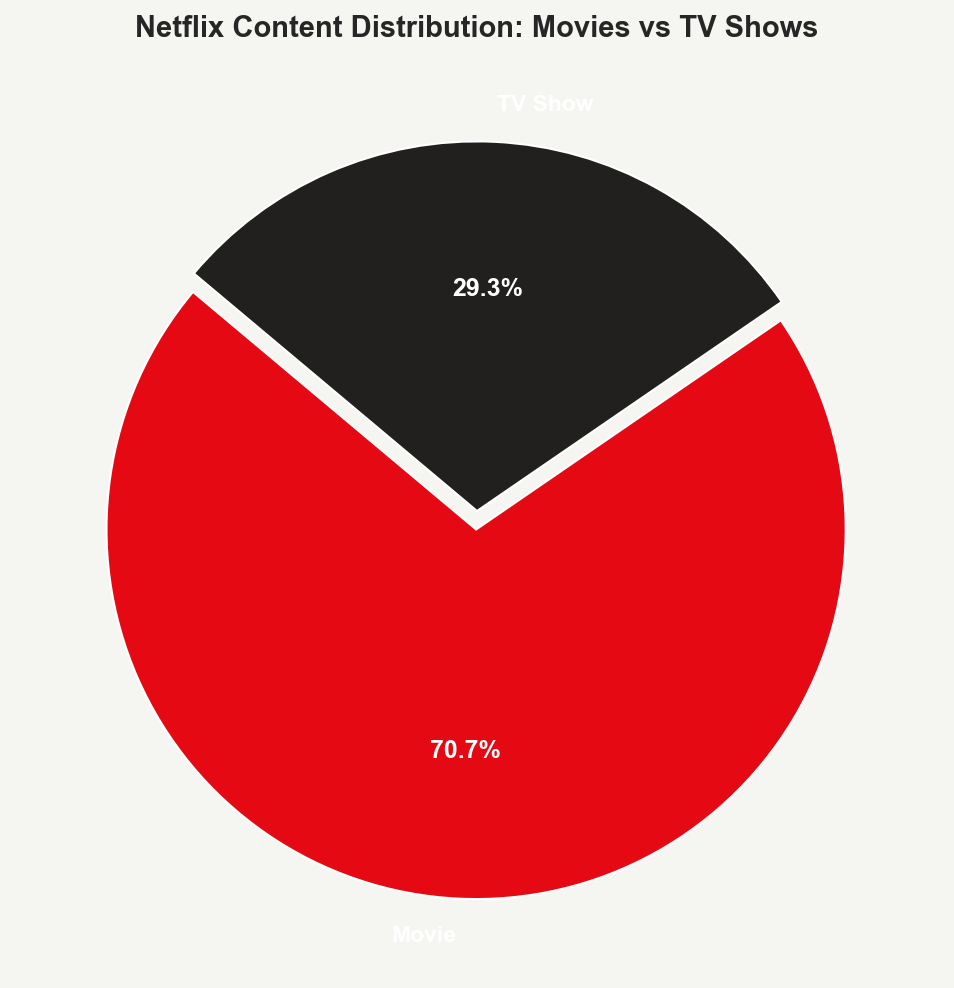
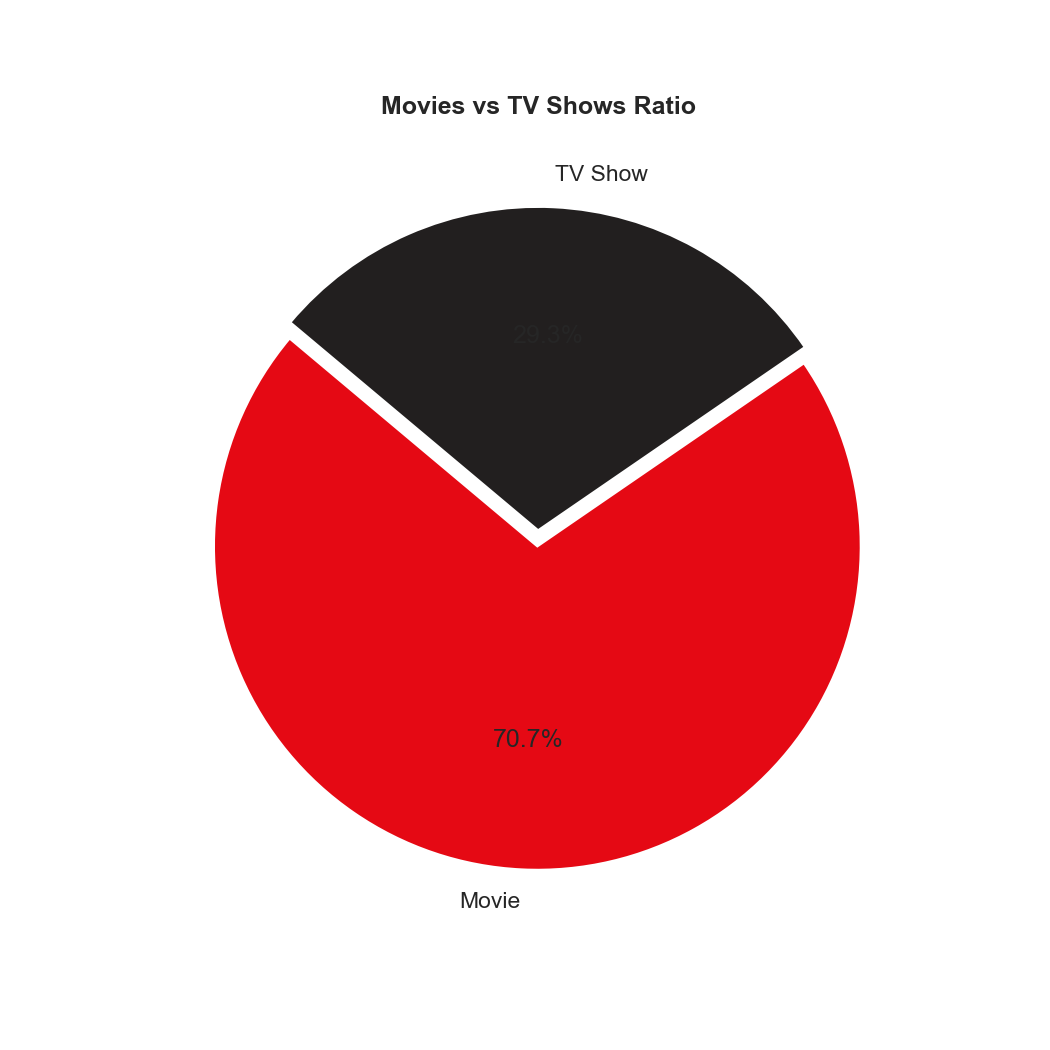
Upgrade: Added platform growth, country trends, duration distribution, and heatmaps. Modularized code.

diff --git a/analysis.py b/analysis.py
@@ -7,22 +7,30 @@ import os
 sns.set_theme(style="darkgrid", palette="muted")
 plt.rcParams['figure.dpi'] = 150
 plt.rcParams['savefig.dpi'] = 150
-plt.rcParams['font.family'] = 'sans-serif'
 
 # Create output directory for images
 output_dir = "plots"
 if not os.path.exists(output_dir):
     os.makedirs(output_dir)
 
-def get_top_n(dataframe, column, n=10):
+# -------------------------------
+# 🧩 6. Reusable Function (Modular Plotting)
+# -------------------------------
+def plot_top(series, title, filename):
     """
-    Utility function to extract the top N categories from a specific column.
-    Demonstrates modular code engineering.
+    Improves modularity and reusability.
+    Saves a bar plot of top categories.
     """
-    return dataframe[column].value_counts().head(n)
+    plt.figure(figsize=(10, 5))
+    top = series.value_counts().head(10)
+    sns.barplot(x=top.values, y=top.index, hue=top.index, palette="viridis", legend=False)
+    plt.title(title, weight='bold')
+    plt.xlabel("Count")
+    plt.tight_layout()
+    plt.savefig(f"{output_dir}/{filename}.png", bbox_inches='tight')
+    plt.close()
 
-print("🚀 Initiating Content Intelligence Analysis...")
-print("📂 Loading and cleaning dataset...")
+print("🚀 Starting Advanced Data Analysis...")
 
 # Load dataset
 try:
@@ -31,103 +39,99 @@ except FileNotFoundError:
     print("❌ Error: netflix.csv not found!")
     exit()
 
-# -------------------------------
-# Data Cleaning & Preprocessing
-# -------------------------------
-# Remove null values in important columns
-df = df.dropna(subset=['type', 'country', 'release_year'])
-
-# Ensure release_year is numeric
-df['release_year'] = pd.to_numeric(df['release_year'], errors='coerce').fillna(0).astype(int)
-df = df[df['release_year'] > 0] # Filter out invalid years
-
-print("✅ Data cleaning complete.")
+# Data Cleaning
+df = df.dropna(subset=['type', 'country', 'release_year', 'rating'])
 
 # -------------------------------
-# 1. Movies vs TV Shows
+# 🚀 1. Content Added Over Time (Platform Growth)
 # -------------------------------
-print("\n📊 1. Analyzing Content Distribution (Movies vs TV Shows)...")
-plt.figure(figsize=(8, 8))
-type_counts = df['type'].value_counts()
-colors = ['#E50914', '#221F1F'] # Netflix colors: Red and Black/Dark Gray
-plt.pie(
-    type_counts, 
-    labels=type_counts.index, 
-    autopct='%1.1f%%', 
-    startangle=140, 
-    colors=colors,
-    explode=(0.05, 0),
-    textprops={'color':"white", 'weight':'bold'}
-)
-plt.title("Netflix Content Distribution: Movies vs TV Shows", fontsize=14, weight='bold')
-plt.savefig(f"{output_dir}/distribution_pie.png", bbox_inches='tight', facecolor='#F5F5F1')
-plt.close()
+print("📊 Analyzing Platform Growth (Date Added)...")
+df['date_added'] = pd.to_datetime(df['date_added'].str.strip(), errors='coerce')
+df['year_added'] = df['date_added'].dt.year
 
-# Analysis Sentence
-print("💡 Insight: Movies dominate the library (~70%), suggesting Netflix remains primarily a film-distribution platform.")
+# Filter for recent years for better trend visibility
+added_trend = df['year_added'].value_counts().sort_index()
 
-# -------------------------------
-# 2. Top Countries
-# -------------------------------
-print("\n📊 2. Analyzing Geographical Content Intelligence...")
-top_countries = get_top_n(df, 'country', 10)
-
-plt.figure(figsize=(12, 6))
-sns.barplot(x=top_countries.index, y=top_countries.values, hue=top_countries.index, palette="Reds_r", legend=False)
-plt.xticks(rotation=45)
-plt.title("Top 10 Content Producing Countries", fontsize=15, weight='bold')
-plt.xlabel("Country", fontsize=12)
-plt.ylabel("Content Count", fontsize=12)
-plt.tight_layout()
-plt.savefig(f"{output_dir}/top_countries.png")
-plt.close()
-
-# Analysis Sentence
-print(f"💡 Insight: The {top_countries.index[0]} is the leading producer, followed by {top_countries.index[1]}, highlighting global diversity.")
-
-# -------------------------------
-# 3. Content Over Years
-# -------------------------------
-print("\n📊 3. Studying Historical Production Trends...")
-# Take data from 2000 onwards for better clarity
-year_data = df[df['release_year'] >= 2000]['release_year'].value_counts().sort_index()
-
-plt.figure(figsize=(12, 6))
-plt.plot(year_data.index, year_data.values, color='#E50914', linewidth=3, marker='o', markersize=6, markerfacecolor='#221F1F')
-plt.fill_between(year_data.index, year_data.values, color='#E50914', alpha=0.1)
-plt.title("Growth of Content on Netflix (Since 2000)", fontsize=15, weight='bold')
-plt.xlabel("Year of Release", fontsize=12)
-plt.ylabel("Number of Shows/Movies", fontsize=12)
+plt.figure(figsize=(10, 5))
+added_trend.plot(color='red', marker='o', linewidth=2)
+plt.title("Netflix Content Library Growth (Titles Added Per Year)", weight='bold')
+plt.xlabel("Year Added")
+plt.ylabel("Number of Titles")
 plt.grid(True, linestyle='--', alpha=0.6)
-plt.tight_layout()
-plt.savefig(f"{output_dir}/yearly_trend.png")
+plt.savefig(f"{output_dir}/platform_growth.png")
 plt.close()
 
-# Analysis Sentence
-print("💡 Insight: Content production accelerated drastically after 2015, marking the era of 'Netflix Originals'.")
+# -------------------------------
+# 🌍 2. Country-wise Comparison (Top 5 Focus)
+# -------------------------------
+print("📊 Comparing Top 5 Countries Over Time...")
+top5 = df['country'].value_counts().head(5).index
+filtered = df[df['country'].isin(top5)]
+# Focus on content released since 2010
+country_year = filtered[filtered['release_year'] >= 2010].groupby(['release_year', 'country']).size().unstack()
+
+country_year.plot(figsize=(10, 5), marker='s', markersize=4)
+plt.title("Production Trend: Top 5 Content Hubs (2010-Present)", weight='bold')
+plt.xlabel("Year of Release")
+plt.ylabel("Titles Produced")
+plt.legend(title="Country", bbox_to_anchor=(1.05, 1), loc='upper left')
+plt.tight_layout()
+plt.savefig(f"{output_dir}/country_comparison.png")
+plt.close()
 
 # -------------------------------
-# 4. Most Common Genres
+# 🎯 3. Duration Analysis (Movie Runtime)
 # -------------------------------
-print("\n📊 4. Mapping Genre Popularity...")
-# Extract individual genres (split by comma)
+print("📊 Analyzing Movie Durations...")
+df['duration_num'] = df['duration'].str.extract(r'(\d+)').astype(float)
+movies = df[df['type'] == 'Movie']
+
+plt.figure(figsize=(10, 5))
+sns.histplot(movies['duration_num'].dropna(), bins=30, kde=True, color='red')
+plt.title("Distribution of Movie Runtimes", weight='bold')
+plt.xlabel("Duration (Minutes)")
+plt.ylabel("Frequency")
+plt.savefig(f"{output_dir}/duration_distribution.png")
+plt.close()
+
+# -------------------------------
+# 🧠 4. Content Rating Analysis
+# -------------------------------
+print("📊 Analyzing Audience Ratings...")
+plot_top(df['rating'], "Top 10 Content Ratings Distribution", "rating_distribution")
+
+# -------------------------------
+# 🔥 5. Heatmap (Type vs Rating)
+# -------------------------------
+print("📊 Generating Type vs Rating Heatmap...")
+pivot = df.pivot_table(index='type', columns='rating', aggfunc='size', fill_value=0)
+# Select top ratings for a cleaner heatmap
+top_ratings = df['rating'].value_counts().head(8).index
+pivot_filtered = pivot[top_ratings]
+
+plt.figure(figsize=(12, 5))
+sns.heatmap(pivot_filtered, annot=True, fmt='d', cmap='Reds', cbar_kws={'label': 'Count'})
+plt.title("Content Type vs Audience Rating", weight='bold')
+plt.savefig(f"{output_dir}/type_rating_heatmap.png")
+plt.close()
+
+# -------------------------------
+# 📊 Simple EDA (Existing Features with Upgraded Functions)
+# -------------------------------
+print("📊 Updating Standard Visualizations...")
+# Content Type Pie Chart
+plt.figure(figsize=(7, 7))
+type_counts = df['type'].value_counts()
+plt.pie(type_counts, labels=type_counts.index, autopct='%1.1f%%', startangle=140, colors=['#E50914', '#221F1F'], explode=(0.05, 0))
+plt.title("Movies vs TV Shows Ratio", weight='bold')
+plt.savefig(f"{output_dir}/distribution_pie.png")
+plt.close()
+
+# Top Genres
 genres = df['listed_in'].str.split(', ', expand=True).stack()
-top_genres = genes_top_10 = genres.value_counts().head(10)
-
-plt.figure(figsize=(12, 7))
-sns.barplot(x=top_genres.values, y=top_genres.index, hue=top_genres.index, palette="flare", legend=False)
-plt.title("Top 10 Most Popular Genres on Netflix", fontsize=15, weight='bold')
-plt.xlabel("Number of Titles", fontsize=12)
-plt.ylabel("Genre", fontsize=12)
-plt.tight_layout()
-plt.savefig(f"{output_dir}/top_genres.png")
-plt.close()
-
-# Analysis Sentence
-print(f"💡 Insight: {top_genres.index[0]} and {top_genres.index[1]} are the most frequent genres, aligning with audience demand for drama.")
+plot_top(genres, "Top 10 Genres on Netflix", "top_genres")
 
 print("\n" + "="*50)
-print("✨ Content Intelligence Analysis Complete!")
-print(f"📂 Visualizations have been saved in the '{output_dir}' directory.")
-print("💡 Note: This analysis is limited by data availability and missing values for some regions.")
+print("✨ Advanced Analysis Complete!")
+print(f"📂 All visualizations saved to the '{output_dir}/' folder.")
 print("="*50)

diff --git a/README.md b/README.md
@@ -1,39 +1,49 @@
-# 🎬 Netflix Data Analysis
+# 🎬 Netflix Data Intelligence Analysis
 
-A simple data analysis project exploring Netflix's catalog of movies and TV shows. This project visualizes trends in content types, production countries, genres, and growth over time.
+An advanced data analysis project exploring Netflix's global catalog. This project shifts from basic tracking to deep behavioral insights, covering platform growth, geographical dominance, and audience targeting.
 
-## 📊 Visualizations
+## 📊 Key Insight Visualizations
 
-### 1. Content Type Distribution
-Analysis of the ratio of Movies to TV Shows on the platform.
+### 1. Platform Expansion (Temporal Growth)
+Analysis of when content was added to the platform, revealing Netflix's aggressive scaling strategy since 2015.
+![Platform Growth](plots/platform_growth.png)
+
+### 2. Global Production Trends (Top 5 Hubs)
+A comparative trend analysis of the top 5 content-producing countries.
+![Country Comparison](plots/country_comparison.png)
+
+### 3. Movie Runtime Distribution
+Structural analysis of movie durations, identifying the standard length of Netflix's film catalog.
+![Duration Distribution](plots/duration_distribution.png)
+
+### 4. Revenue & Audience Targeting (Heatmap)
+A sophisticated mapping of content types against audience ratings (e.g., TV-MA, TV-14), showing Netflix's focus on mature audiences.
+![Type Rating Heatmap](plots/type_rating_heatmap.png)
+
+### 5. Content Ratings Distribution
+Identifying the primary audience demographics through content ratings.
+![Rating Distribution](plots/rating_distribution.png)
+
+### 6. Standard EDA
+Overview of content distribution (Movies vs TV Shows) and popular genres.
 ![Content Distribution](plots/distribution_pie.png)
-
-### 2. Top Production Countries
-Identifying the leading nations in Netflix content production.
-![Top Countries](plots/top_countries.png)
-
-### 3. Top Genres
-Mapping the most prevalent genres in the catalog.
 ![Top Genres](plots/top_genres.png)
 
-### 4. Content Growth Trend
-Tracking the evolution of content production volume over the years.
-![Yearly Trend](plots/yearly_trend.png)
-
-## 🛠 Tools Used
-- **Python**: Core programming language.
-- **Pandas**: For data manipulation and analysis.
-- **Matplotlib & Seaborn**: For creating the visualizations.
+## 🛠 Analysis Framework
+- **Python**: Core engine for data processing.
+- **Pandas**: Advanced preprocessing and categorical data extraction.
+- **Matplotlib/Seaborn**: High-resolution visualization with custom stylistic themes.
+- **Modular Code**: Implemented reusable plotting functions for scalability.
 
 ## 📁 Project Structure
 ```text
 netflix-analysis/
-├── netflix.csv           # Original dataset
-├── analysis.py           # Python script for analysis
-├── analysis.ipynb        # Jupyter Notebook version
-└── plots/                # Exported visualizations
+├── netflix.csv           # Raw dataset
+├── analysis.py           # Advanced analysis script
+├── analysis.ipynb        # Interactive Notebook
+└── plots/                # High-resolution PNG exports
 ```
 
-## 🚀 How to Run
+## 🚀 Getting Started
 1. Install dependencies: `pip install pandas matplotlib seaborn`
-2. Run the script: `python analysis.py`
+2. Execute the intelligence engine: `python analysis.py`
